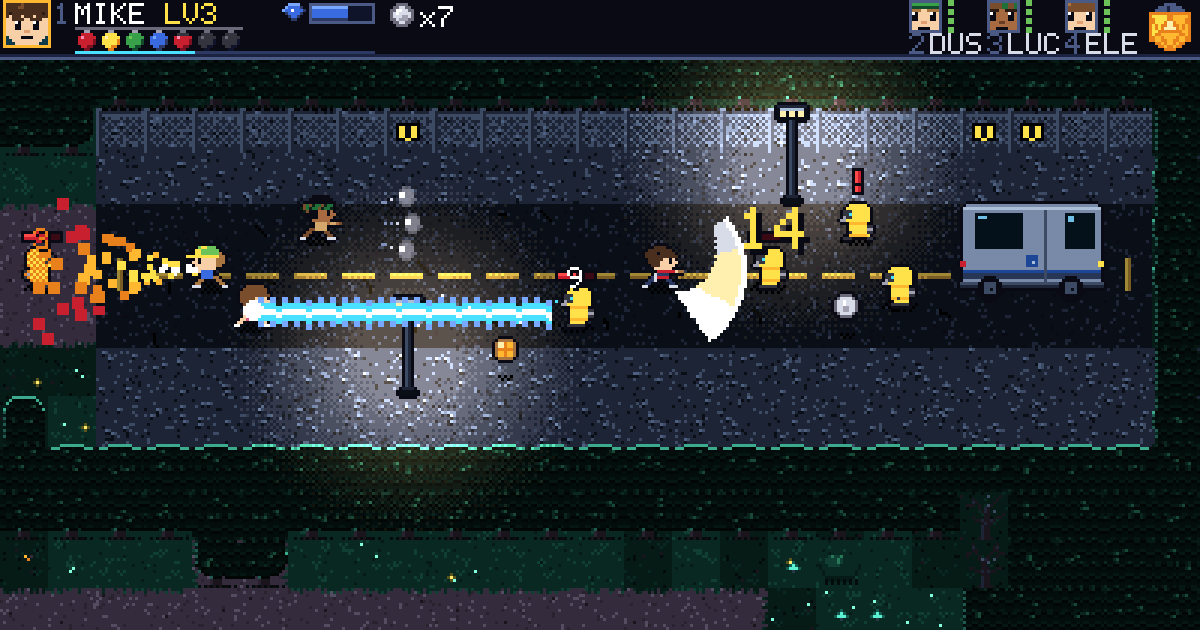
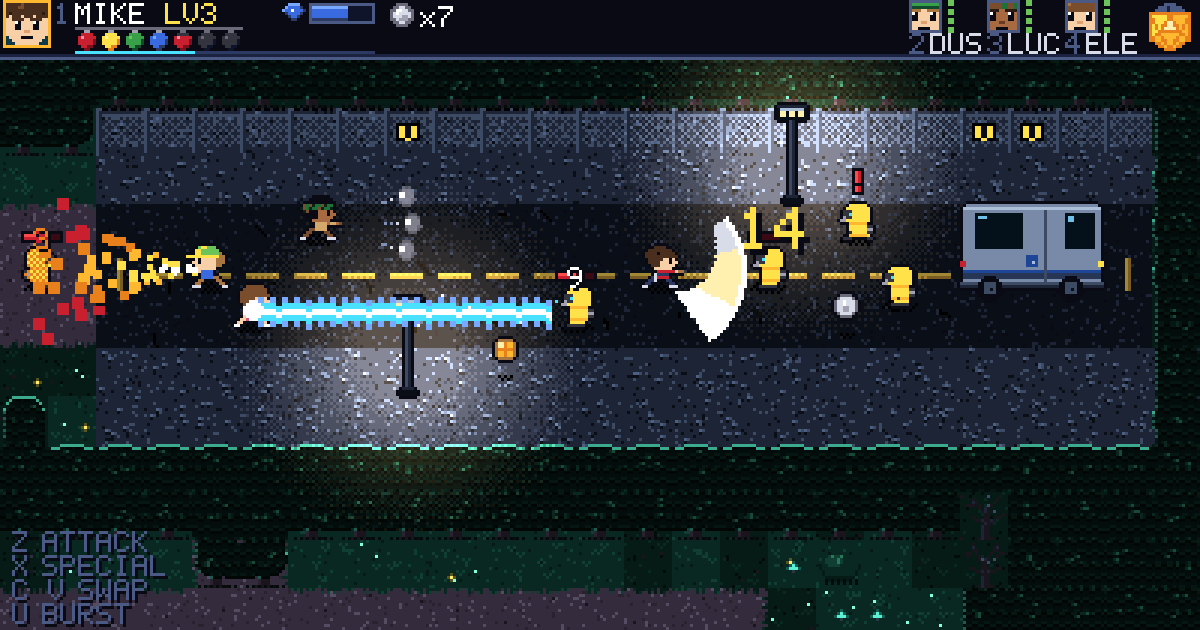
Show the corner controls on the fight card
The fight card now draws the level's bottom left controls with the game's own
drawControlsCorner and the default keys: Z attack, X special, C V swap,
U burst, with no dash. The Lab road is far past the starting yard, so they're
fully faded, as the game shows them there.

social.html's idle sim input drops dashPressed, which SimInput no longer has.

Changed region(s): [[0.0, 0.8444, 0.1542, 0.9952]]

diff --git a/social.html b/social.html
@@ -63,7 +63,7 @@ import { settings } from '/src/core/settings.ts';
 import { SCREEN_W, SCREEN_H, VIEW_TOP } from '/src/core/config.ts';
 import { HERO_DEFS } from '/src/heroes/defs.ts';
 import { getStage } from '/src/world/stage.ts';
-import { drawWorld } from '/src/world/render.ts';
+import { drawControlsCorner, drawWorld } from '/src/world/render.ts';
 import { createSim } from '/src/combat/index.ts';
 import { drawHud } from '/src/ui/hud.ts';
 import { MIDDLE_END } from '/src/ui/hudlayout.ts';
@@ -220,7 +220,7 @@ function partyCard(ctx, w, h) {
 
 // ---------------------------------------------------------------- the fight on the Lab road
 const stage = getStage('1.1');
-const IDLE = { mx: 0, my: 0, attackHeld: false, attackPressed: false, specialPressed: false, specialHeld: false, dashPressed: false, swapDelta: 0, swapTo: -1, burstPressed: false };
+const IDLE = { mx: 0, my: 0, attackHeld: false, attackPressed: false, specialPressed: false, specialHeld: false, swapDelta: 0, swapTo: -1, burstPressed: false };
 const tx = (t) => t * 16 + 8, ty = (t) => t * 16 + 12;
 
 function freshSim(party, x, y) {
@@ -259,7 +259,7 @@ function agent(x, y, o = {}) {
 
 const hit = (text, x, y, color = 'white', big = false) => ({ text, x, y, t: 8, life: 40, color, big });
 
-/** The night stage across any width: the world pass in 256-wide windows, stitched, then the HUD split to both edges. */
+/** The night stage across any width: the world pass in 256-wide windows, stitched, the HUD split to both edges, then the corner controls. */
 function fightCard(ctx, w, h) {
   const party = [{ id: 'mike', level: 3 }, { id: 'dustin', level: 3 }, { id: 'lucas', level: 3 }, { id: 'eleven', level: 3 }];
   const base = freshSim(party, tx(30), ty(4)).view();
@@ -310,6 +310,13 @@ function fightCard(ctx, w, h) {
   const split = MIDDLE_END + 1;
   ctx.drawImage(glowPad, 0, 0, split, VIEW_TOP, 0, 0, split, VIEW_TOP);
   ctx.drawImage(glowPad, split, 0, SCREEN_W - split, VIEW_TOP, w - (SCREEN_W - split), 0, SCREEN_W - split, VIEW_TOP);
+
+  // The controls in the level's bottom left corner, with the default keys. The Lab road is far past the yard, so they
+  // show fully faded, as in the game. The card is shorter than the screen, so they move up to keep the same margin.
+  ctx.save();
+  ctx.translate(0, h - SCREEN_H);
+  drawControlsCorner(ctx, 1);
+  ctx.restore();
 }
 
 const CARDS = [
